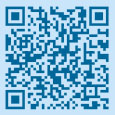
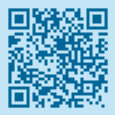
新增：1.督导系统-挂牌督导-下校随访-随访记录需要增加两个字段：到校时间 、离校时间。2.督导前台-右下角学习交流后面也增加一个更多，点击之后列出学习交流栏目的文章列表。3.督导前台-右下二维码能否先换成一个空白网页的二维码

diff --git a/sub/jiaoliu/js/function.js b/sub/jiaoliu/js/function.js
@@ -37,6 +37,16 @@
         	return
 		}		
 	}
+	var s_title=document.getElementById ('Vcl_StartTime').value
+    if (s_title.length==0){
+        parent.parent.Dialog_Message('[ 到校时间] 不能为空 ！');
+        return
+    }
+	var s_title=document.getElementById ('Vcl_EndTime').value
+    if (s_title.length==0){
+        parent.parent.Dialog_Message('[ 离校时间] 不能为空 ！');
+        return
+    }
     document.getElementById ('Vcl_Content').value=UE.getEditor('editor').getContent()
     var s_content=document.getElementById ('Vcl_Content').value
     if (s_content.length<10){

diff --git a/sub/jiaoliu/include/bn_operate.class.php b/sub/jiaoliu/include/bn_operate.class.php
@@ -22,6 +22,8 @@ class Operate extends Bn_Basic {
 			$o_article->setContent ( rawurldecode ( $_POST ['Vcl_Content'] ) );
 			$o_date = new DateTime ( 'Asia/Chongqing' );
 			$o_article->setDate ( $_POST ['Vcl_Date'] );
+			$o_article->setStartTime ( $_POST ['Vcl_StartTime'] );
+			$o_article->setEndTime ( $_POST ['Vcl_EndTime'] );
 			$o_article->setLastDate ( $o_date->format ( 'Y' ) . '-' . $o_date->format ( 'm' ) . '-' . $o_date->format ( 'd' ) . ' ' . $o_date->format ( 'H' ) . ':' . $o_date->format ( 'i' ) . ':' . $o_date->format ( 's' ) );
 			$o_article->setSchoolJoin ( $_POST ['Vcl_SchoolJoin'] );
 			//构建督学名单
@@ -84,6 +86,8 @@ class Operate extends Bn_Basic {
 			$o_article->setSchoolJoin ( $_POST ['Vcl_SchoolJoin'] );
 			$o_article->setDuxueJoin ( $_POST ['Vcl_DuxueJoin'] );
 			$o_article->setDate ( $_POST ['Vcl_Date'] );
+			$o_article->setStartTime ( $_POST ['Vcl_StartTime'] );
+			$o_article->setEndTime ( $_POST ['Vcl_EndTime'] );
 			$o_article->setFeedback ($this->AilterTextArea($_POST ['Vcl_Feedback'])  );
 			$o_article->setLastDate ( $o_date->format ( 'Y' ) . '-' . $o_date->format ( 'm' ) . '-' . $o_date->format ( 'd' ) . ' ' . $o_date->format ( 'H' ) . ':' . $o_date->format ( 'i' ) . ':' . $o_date->format ( 's' ) );
 			$o_article->setType ( $_POST ['Vcl_Type'] );

diff --git a/sub/jiaoliu/article_modify.php b/sub/jiaoliu/article_modify.php
@@ -103,6 +103,24 @@ var S_Root='../../';
 				style="height: 20px" /></td>
 		</tr>
 		<tr>
+			<td class="TableData" nowrap="nowrap" width="120">到校时间：</td>
+			<td class="TableData fuja"><input id="Vcl_StartTime" name="Vcl_StartTime"
+				size="30" maxlength="50" class="BigInput" value="<?php
+				echo ($o_article->getStartTime ());
+				?>" type="text"
+				style="font-size: 14px; height: 20px" onclick="WdatePicker({dateFmt:'yyyy-MM-dd HH:mm:ss'})"
+				/></td>
+		</tr>
+		<tr>
+			<td class="TableData" nowrap="nowrap" width="120">离校时间：</td>
+			<td class="TableData fuja"><input id="Vcl_EndTime" name="Vcl_EndTime"
+				size="30" maxlength="50" class="BigInput" value="<?php
+				echo ($o_article->getEndTime ());
+				?>" type="text"
+				style="font-size: 14px; height: 20px" onclick="WdatePicker({dateFmt:'yyyy-MM-dd HH:mm:ss'})"
+				/></td>
+		</tr>
+		<tr>
 			<td class="TableData" nowrap="nowrap" width="120">同时其他处理：</td>
 			<td class="TableData"><select name="Vcl_Transfer"
 				id="Vcl_Transfer" class="BigSelect">

diff --git a/sub/jiaoliu/post.php b/sub/jiaoliu/post.php
@@ -107,6 +107,20 @@ var S_Root='../../';
 			</td>
 		</tr>
 		<tr>
+			<td class="TableData" nowrap="nowrap" width="120">到校时间：</td>
+			<td class="TableData fuja"><input id="Vcl_StartTime" name="Vcl_StartTime"
+				size="30" maxlength="50" class="BigInput" value="" type="text"
+				style="font-size: 14px; height: 20px" onclick="WdatePicker({dateFmt:'yyyy-MM-dd HH:mm:ss'})"
+				/></td>
+		</tr>
+		<tr>
+			<td class="TableData" nowrap="nowrap" width="120">离校时间：</td>
+			<td class="TableData fuja"><input id="Vcl_EndTime" name="Vcl_EndTime"
+				size="30" maxlength="50" class="BigInput" value="" type="text"
+				style="font-size: 14px; height: 20px" onclick="WdatePicker({dateFmt:'yyyy-MM-dd HH:mm:ss'})"
+				/></td>
+		</tr>
+		<tr>
 			<td class="TableData" nowrap="nowrap" width="120">同时转其他处理：</td>
 			<td class="TableData"><select name="Vcl_Transfer"
 				id="Vcl_Transfer" class="BigSelect">

diff --git a/sub/jiaoliu/send_pdf.php b/sub/jiaoliu/send_pdf.php
@@ -57,6 +57,24 @@ ob_start();
                     </td>
                 </tr>
                 <tr>
+                    <td colspan="2" style="width:25%;">
+                        到校时间
+                    </td>
+                    <td style="width:40%">
+                        <?php
+				echo ($o_article->getStartTime ());
+				?>                    
+                    </td>
+                    <td style="width:20%">
+                        离校时间
+                    </td>
+                    <td style="width:15%">
+                       <?php
+				echo ($o_article->getEndTime ());
+				?>
+                    </td>
+                </tr>
+                <tr>
                     <td rowspan="2">
                         参加人员
                     </td>

diff --git a/sub/home/index.php b/sub/home/index.php
@@ -405,8 +405,11 @@ function get_week($date){
                 <?php
             		$o_table=new Home_Column(9);//学习交流
             	?>                
-                <div class="communication_box">
-                    <h2>学习交流</h2>
+                <div class="category_list_box communication_box">
+                	<div class="category_list_title">
+                    <h2 style="width:auto;border:0px;margin-left:0px;">学习交流</h2>
+                    <div class="more_btn" onclick="location='index_article_list.php?id=<?php echo($o_table->getColumnId())?>'">更多</div>
+                    </div>
                     <?php 
 	                    $o_temp=new Home_Article();
 						$o_temp->PushWhere ( array ('||', 'Delete', '=', 0 ) );

diff --git a/sub/jiaoliu/include/db_table.class.php b/sub/jiaoliu/include/db_table.class.php
@@ -16,6 +16,8 @@ class Jiaoliu_Article extends CRUD
    protected $SchoolJoin;
    protected $DuxueJoin;
    protected $Feedback;
+   protected $StartTime;
+   protected $EndTime;
    
    protected function DefineKey()
    {
@@ -38,6 +40,8 @@ class Jiaoliu_Article extends CRUD
           'school_join' => 'SchoolJoin',
           'duxue_join' => 'DuxueJoin',
       'feedback' => 'Feedback',
+      'start_time' => 'StartTime',
+      'end_time' => 'EndTime',
 				    'dept' => 'Dept'      				
                    ));
    }

diff --git a/qrcode.php b/qrcode.php
@@ -1,0 +1,2 @@
+<?php
+?>
